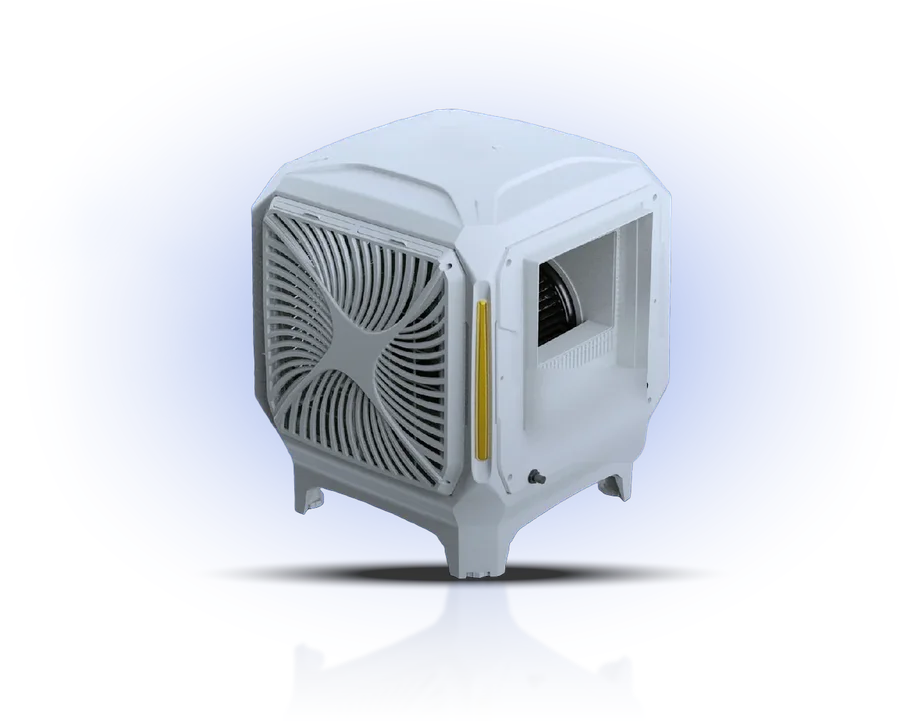
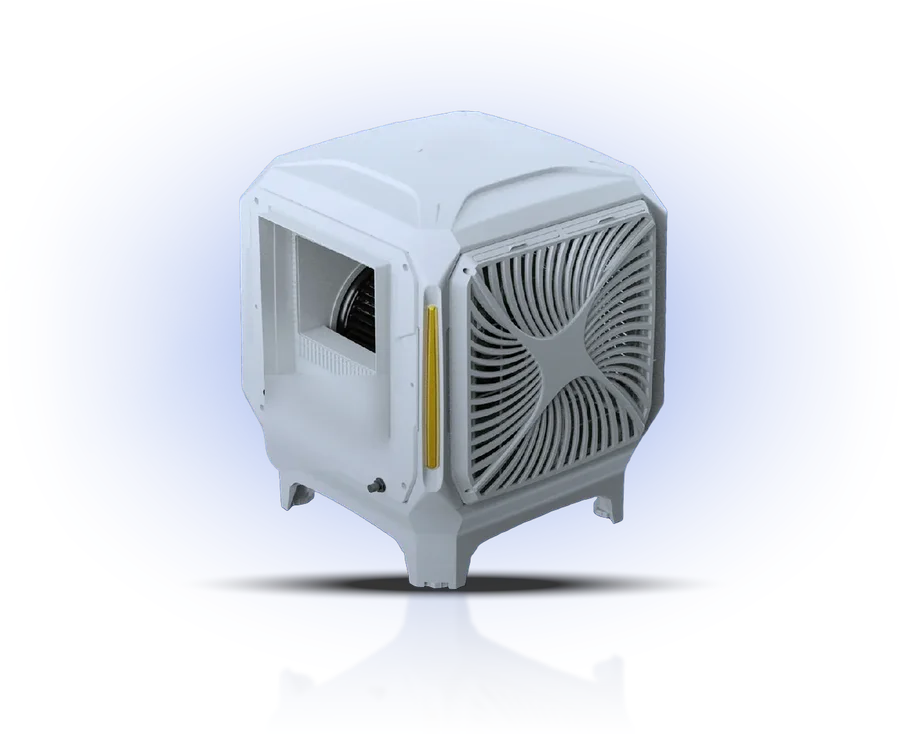
Homepage hero: BLDC Cube mirrored to face the headline, slides change every 5 seconds
Claude-Session: https://claude.ai/code/session_017ndVL5wmu7Lp2kLfZXcscG

Changed region(s): [[0.2489, 0.2136, 0.7467, 0.8239]]

diff --git a/site/ar/index.html b/site/ar/index.html
@@ -65,9 +65,9 @@
             <a class="hc-3d" href="../3d/mini-chiller/index.html">عرض ثلاثي الأبعاد <svg class="flip" viewBox="0 0 24 24" aria-hidden="true"><path d="M7 17 17 7M8 7h9v9" fill="none" stroke="currentColor" stroke-width="2" stroke-linecap="round" stroke-linejoin="round"/></svg></a></figcaption>
         </figure>
         <figure class="hc-slide" aria-roledescription="slide" aria-label="PureBreeze BLDC Cube" aria-hidden="true">
-          <img class="hc-img" src="../assets/img/hero/bldc-cube-lit.webp" srcset="../assets/img/hero/bldc-cube-lit-sm.webp 900w, ../assets/img/hero/bldc-cube-lit.webp 1334w" sizes="(max-width: 820px) 100vw, 46vw" width="1334" height="1069" alt="مكيف بيور بريز BLDC المكعب على خلفية زرقاء داكنة" loading="lazy" decoding="async">
-          <svg class="hc-air" viewBox="0 0 100 100" preserveAspectRatio="none" aria-hidden="true" focusable="false"><defs><linearGradient id="hc-air-g1" gradientUnits="userSpaceOnUse" x1="32" y1="0" x2="-25" y2="0"><stop offset="0" stop-color="#e8f0ff" stop-opacity=".9"/><stop offset=".55" stop-color="#93b4ff" stop-opacity=".45"/><stop offset="1" stop-color="#93b4ff" stop-opacity="0"/></linearGradient></defs><g stroke="url(#hc-air-g1)"><path pathLength="100" d="M32 38 C24 35, 17 41, 9 38 S-1 34, -8 37"/><path pathLength="100" d="M31 46 C23 45, 16 50, 7 47 S-3 44, -10 47"/><path pathLength="100" d="M31 54 C23 55, 16 59, 7 57 S-3 54, -10 58"/><path pathLength="100" d="M32 61 C24 63, 17 66, 9 65 S-1 63, -8 66"/></g></svg>
-          <span class="hc-led hc-led-amber" style="left:53%;top:41.3%;width:1.6%;height:21.9%" aria-hidden="true"></span>
+          <img class="hc-img" src="../assets/img/hero/bldc-cube-lit.webp" srcset="../assets/img/hero/bldc-cube-lit-sm.webp 900w, ../assets/img/hero/bldc-cube-lit.webp 1310w" sizes="(max-width: 820px) 100vw, 46vw" width="1310" height="1069" alt="مكيف بيور بريز BLDC المكعب على خلفية زرقاء داكنة" loading="lazy" decoding="async">
+          <svg class="hc-air" viewBox="0 0 100 100" preserveAspectRatio="none" aria-hidden="true" focusable="false"><defs><linearGradient id="hc-air-g1" gradientUnits="userSpaceOnUse" x1="30" y1="0" x2="-27" y2="0"><stop offset="0" stop-color="#e8f0ff" stop-opacity=".9"/><stop offset=".55" stop-color="#93b4ff" stop-opacity=".45"/><stop offset="1" stop-color="#93b4ff" stop-opacity="0"/></linearGradient></defs><g stroke="url(#hc-air-g1)"><path pathLength="100" d="M30 32 C22 29, 15 35, 7 32 S-3 28, -10 31"/><path pathLength="100" d="M29 38 C21 37, 14 42, 5 39 S-5 36, -12 39"/><path pathLength="100" d="M29 44 C21 45, 14 49, 5 47 S-5 44, -12 48"/><path pathLength="100" d="M30 50 C22 52, 15 55, 7 54 S-3 52, -10 55"/></g></svg>
+          <span class="hc-led hc-led-amber" style="left:47.3%;top:40.2%;width:1.7%;height:24.2%" aria-hidden="true"></span>
           <figcaption class="hc-tag"><span class="hc-new">جديد في معرض كانتون 2026</span>
             <a href="brands/purebreeze/pb-bldc-cube.html"><small>PureBreeze</small> <b dir="ltr">BLDC Cube</b></a>
             <a class="hc-3d" href="../3d/pb-98c/index.html">عرض ثلاثي الأبعاد <svg class="flip" viewBox="0 0 24 24" aria-hidden="true"><path d="M7 17 17 7M8 7h9v9" fill="none" stroke="currentColor" stroke-width="2" stroke-linecap="round" stroke-linejoin="round"/></svg></a></figcaption>

diff --git a/site/en/index.html b/site/en/index.html
@@ -65,9 +65,9 @@
             <a class="hc-3d" href="../3d/mini-chiller/index.html">View in 3D <svg class="flip" viewBox="0 0 24 24" aria-hidden="true"><path d="M7 17 17 7M8 7h9v9" fill="none" stroke="currentColor" stroke-width="2" stroke-linecap="round" stroke-linejoin="round"/></svg></a></figcaption>
         </figure>
         <figure class="hc-slide" aria-roledescription="slide" aria-label="PureBreeze BLDC Cube" aria-hidden="true">
-          <img class="hc-img" src="../assets/img/hero/bldc-cube-lit.webp" srcset="../assets/img/hero/bldc-cube-lit-sm.webp 900w, ../assets/img/hero/bldc-cube-lit.webp 1334w" sizes="(max-width: 820px) 100vw, 46vw" width="1334" height="1069" alt="PureBreeze BLDC Cube air cooler on a dark blue stage" loading="lazy" decoding="async">
-          <svg class="hc-air" viewBox="0 0 100 100" preserveAspectRatio="none" aria-hidden="true" focusable="false"><defs><linearGradient id="hc-air-g1" gradientUnits="userSpaceOnUse" x1="32" y1="0" x2="-25" y2="0"><stop offset="0" stop-color="#e8f0ff" stop-opacity=".9"/><stop offset=".55" stop-color="#93b4ff" stop-opacity=".45"/><stop offset="1" stop-color="#93b4ff" stop-opacity="0"/></linearGradient></defs><g stroke="url(#hc-air-g1)"><path pathLength="100" d="M32 38 C24 35, 17 41, 9 38 S-1 34, -8 37"/><path pathLength="100" d="M31 46 C23 45, 16 50, 7 47 S-3 44, -10 47"/><path pathLength="100" d="M31 54 C23 55, 16 59, 7 57 S-3 54, -10 58"/><path pathLength="100" d="M32 61 C24 63, 17 66, 9 65 S-1 63, -8 66"/></g></svg>
-          <span class="hc-led hc-led-amber" style="left:53%;top:41.3%;width:1.6%;height:21.9%" aria-hidden="true"></span>
+          <img class="hc-img" src="../assets/img/hero/bldc-cube-lit.webp" srcset="../assets/img/hero/bldc-cube-lit-sm.webp 900w, ../assets/img/hero/bldc-cube-lit.webp 1310w" sizes="(max-width: 820px) 100vw, 46vw" width="1310" height="1069" alt="PureBreeze BLDC Cube air cooler on a dark blue stage" loading="lazy" decoding="async">
+          <svg class="hc-air" viewBox="0 0 100 100" preserveAspectRatio="none" aria-hidden="true" focusable="false"><defs><linearGradient id="hc-air-g1" gradientUnits="userSpaceOnUse" x1="30" y1="0" x2="-27" y2="0"><stop offset="0" stop-color="#e8f0ff" stop-opacity=".9"/><stop offset=".55" stop-color="#93b4ff" stop-opacity=".45"/><stop offset="1" stop-color="#93b4ff" stop-opacity="0"/></linearGradient></defs><g stroke="url(#hc-air-g1)"><path pathLength="100" d="M30 32 C22 29, 15 35, 7 32 S-3 28, -10 31"/><path pathLength="100" d="M29 38 C21 37, 14 42, 5 39 S-5 36, -12 39"/><path pathLength="100" d="M29 44 C21 45, 14 49, 5 47 S-5 44, -12 48"/><path pathLength="100" d="M30 50 C22 52, 15 55, 7 54 S-3 52, -10 55"/></g></svg>
+          <span class="hc-led hc-led-amber" style="left:47.3%;top:40.2%;width:1.7%;height:24.2%" aria-hidden="true"></span>
           <figcaption class="hc-tag"><span class="hc-new">New at Canton Fair 2026</span>
             <a href="brands/purebreeze/pb-bldc-cube.html"><small>PureBreeze</small> <b dir="ltr">BLDC Cube</b></a>
             <a class="hc-3d" href="../3d/pb-98c/index.html">View in 3D <svg class="flip" viewBox="0 0 24 24" aria-hidden="true"><path d="M7 17 17 7M8 7h9v9" fill="none" stroke="currentColor" stroke-width="2" stroke-linecap="round" stroke-linejoin="round"/></svg></a></figcaption>

diff --git a/site/assets/css/site.css b/site/assets/css/site.css
@@ -1088,7 +1088,7 @@ html[lang="ar"] .spec-x thead .mname { font-size: 1.05rem; }
 .hc-dot::after { background: #fff; transform: scaleX(0); transform-origin: left center; }
 [dir="rtl"] .hc-dot::after { transform-origin: right center; }
 .hc-dot:hover::before { background: rgba(238, 242, 248, .45); }
-.hc-dot[aria-current="true"]::after { animation: hc-prog 6.5s linear forwards; }
+.hc-dot[aria-current="true"]::after { animation: hc-prog 5s linear forwards; }
 .hc-art.is-paused .hc-dot::after { animation-play-state: paused; }
 @keyframes hc-prog { to { transform: scaleX(1); } }
 .hc-dot:focus-visible { outline: 2px solid var(--blue-hi); outline-offset: 0; }

diff --git a/tools/make_hero_art.py b/tools/make_hero_art.py
@@ -53,9 +53,11 @@ def scene(w, h, cx, cy):
     return Image.fromarray(np.clip(rgb, 0, 255).astype(np.uint8))
 
 
-def lit_product(name, mist_at, mist_reach=(-0.25, 0.05), pad=1.0):
+def lit_product(name, mist_at, mist_reach=(-0.25, 0.05), pad=1.0, flip=False):
     """`mist_at`: where the cold air leaves the unit, as fractions of the cutout; `mist_reach`: where the plume centres, relative to that."""
     src = Image.open(os.path.join(IMG, name + ".webp")).convert("RGBA")
+    if flip:  # mirror so the air outlet faces the headline (left of the hero)
+        src = src.transpose(Image.FLIP_LEFT_RIGHT)
     pw, ph = src.size
     W, H = int(pw * 1.7 * pad), int(ph * 1.75 * pad)
     ox, oy = (W - pw) // 2, int(H * 0.12 + ph * (pad - 1) * 0.6)
@@ -133,9 +135,11 @@ def main():
 
     # the indoor unit's grille (tall unit, right of the photo); the BLDC Cube's fan face (left of the photo)
     # pad: the Cube is one compact unit, so it gets more room around it to match the pair's size on screen
-    for out, name, mist_at, reach, pad in (("mini-chiller-lit", "aolan/mini-chiller", (0.71, 0.16), (-0.25, 0.05), 1.0),
-                                           ("bldc-cube-lit", "purebreeze/bldc-hero", (0.25, 0.42), (-0.35, -0.05), 1.3)):
-        lp = lit_product(name, mist_at, reach, pad)
+    # BLDC Cube: mirrored, so its blower outlet (the open square duct) faces left like the Mini Chiller's grille
+    for out, name, mist_at, reach, pad, flip in (
+            ("mini-chiller-lit", "aolan/mini-chiller", (0.71, 0.16), (-0.25, 0.05), 1.0, False),
+            ("bldc-cube-lit", "purebreeze/bldc-hero", (0.30, 0.48), (-0.3, -0.02), 1.3, True)):
+        lp = lit_product(name, mist_at, reach, pad, flip)
         lp.save(os.path.join(OUT, out + ".webp"), quality=86)
         sm = lp.resize((900, lp.height * 900 // lp.width), Image.LANCZOS)
         sm.save(os.path.join(OUT, out + "-sm.webp"), quality=84)

diff --git a/tools/build.py b/tools/build.py
@@ -610,10 +610,10 @@ def build_home(lang):
          (55, ["M55 20 C44 17, 36 24, 25 20 S8 14, -2 18", "M55 24.5 C43 23, 35 29, 23 25.5 S6 21, -4 25",
                "M55 29 C44 29, 37 34, 25 31 S8 28, -2 32", "M55 33 C45 34, 38 38, 27 36 S11 34, 1 38"]),
          ("62%", "53.7%", "1.1%", "16.8%", "")),
-        (newp, "PureBreeze", "BLDC Cube", "bldc-cube-lit", (1334, 1069), "3d/pb-98c/index.html", "hero_img_alt_cube",
-         (32, ["M32 38 C24 35, 17 41, 9 38 S-1 34, -8 37", "M31 46 C23 45, 16 50, 7 47 S-3 44, -10 47",
-               "M31 54 C23 55, 16 59, 7 57 S-3 54, -10 58", "M32 61 C24 63, 17 66, 9 65 S-1 63, -8 66"]),
-         ("53%", "41.3%", "1.6%", "21.9%", " hc-led-amber")),
+        (newp, "PureBreeze", "BLDC Cube", "bldc-cube-lit", (1310, 1069), "3d/pb-98c/index.html", "hero_img_alt_cube",
+         (30, ["M30 32 C22 29, 15 35, 7 32 S-3 28, -10 31", "M29 38 C21 37, 14 42, 5 39 S-5 36, -12 39",
+               "M29 44 C21 45, 14 49, 5 47 S-5 44, -12 48", "M30 50 C22 52, 15 55, 7 54 S-3 52, -10 55"]),
+         ("47.3%", "40.2%", "1.7%", "24.2%", " hc-led-amber")),
     )):
         gid = f"hc-air-g{i}"
         paths = "".join(f'<path pathLength="100" d="{d}"/>' for d in air[1])
